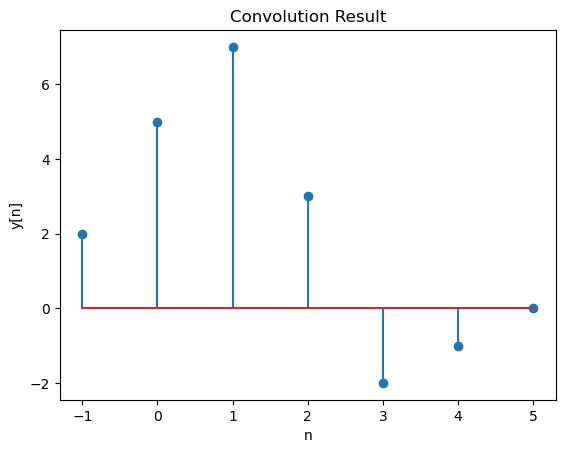
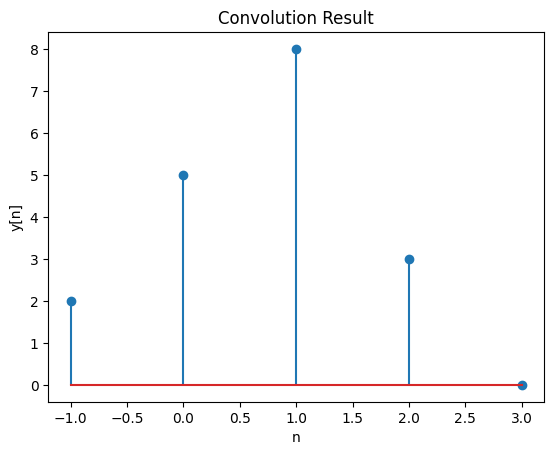
updated

Changed region(s): [[0.0, 0.0, 1.0, 0.989], [0.7978, 0.6799, 0.8285, 0.7726], [0.9206, 0.649, 0.9513, 0.7108]]

diff --git a/Lab/lab_05/5_1_Convolution/5_1_Convolution.md b/Lab/lab_05/5_1_Convolution/5_1_Convolution.md
@@ -13,7 +13,7 @@ Semester : 4
 
 Lab: Signals and Systems (BEC 451)
 
-Date of Completion 21/03/2024
+Date of Completion 10/03/2024
 
 
 ```python
@@ -21,12 +21,12 @@ import numpy as np
 import matplotlib.pyplot as plt
 ```
 
-## Using Step by step approach 
+## Convolution Using Step by step approach 
 
 
 ```python
-x = [1, 2, 3, 1]
-h = [1, 2, 1, -1]
+x = [1, 2, 3]
+h = [1, 2, 1]
 
 size = len(x) + len(h) - 1
 
@@ -42,7 +42,7 @@ for n in range(size):
 # From Lowest Point of h(n) or x(n) to LowestPoint + ConvolutionSize
 # -1,0,1,2,3,4,5 (Total Point = ConvSize = 7)
 
-t = np.arange(-1, 6)  # Index of Convolution
+t = np.arange(-1, 4)  # Index of Convolution
 
 plt.stem(t, output)
 plt.xlabel('n')
@@ -57,14 +57,28 @@ plt.show()
     
 
 
+## Convolution using built in function
+
+
+```python
+np.convolve(x ,h)
+```
+
+
+
+
+    array([1., 4., 8., 8., 3., 0., 0., 0., 0., 0., 0., 0., 0., 0.])
+
+
+
 ## Using a separate convolution function with strides
 
 
 ```python
-def conv1D(x,w, p=0 , s=1): 
+def conv1D(x,w, p , s): 
   '''
-  x : input vector
-  w : filter
+  x : first signal
+  w : second signal
   p : padding size
   s : stride
   '''
@@ -99,38 +113,24 @@ ax1.set_xticklabels(('$1$', '$2$', '$3$'))
 ax2.stem(n,w)
 ax2.set_xticks((1,2,3))
 ax2.set_xticklabels(('$1$', '$2$', '$3$'))
-y=conv1D(x,w,2,1)
+y=conv1D(x,w,2,2)
 n=[1,2,3,4,5]
-ax3.stem(n,y,"k")
+ax3.stem(y,"k")
 ax3.set_xlabel('n->')
 ax3.set_ylabel('result of convolution->')
 ax3.set_xticks((1,2,3,4,5))
 ax3.set_xticklabels(('$1$', '$2$', '$3$', '$4$', '$5$'))
 plt.grid(color='grey', linestyle='-.', linewidth=0.5, axis='both')
-print(f'The resultant values are',y)
+print(f'The resultant values after striare',y)
 ```
 
-    The resultant values are [1. 2. 4. 3. 2.]
+    The resultant values after striare [1. 4. 2.]
     
 
 
     
-![png](output_7_1.png)
+![png](output_9_1.png)
     
-
-
-## using built in function
-
-
-```python
-np.convolve(x , w)
-```
-
-
-
-
-    array([1, 2, 4, 3, 2])
-
 
 
 

diff --git a/Lab/lab_05/5_2_Correlation/5_2_Correlation.md b/Lab/lab_05/5_2_Correlation/5_2_Correlation.md
@@ -13,7 +13,7 @@ Semester : 4
 
 Lab: Signals and Systems (BEC 451)
 
-Date of Completion 21/03/2024
+Date of Completion 15/02/2023
 
 ## Cross-correlation
 Cross-correlation is a basic signal processing method, which is used to analyze the similarity between two signals with different lags. Not only can you get an idea of how well the two signals match with each other, but you also get the point of time or an index, where they are the most similar.
